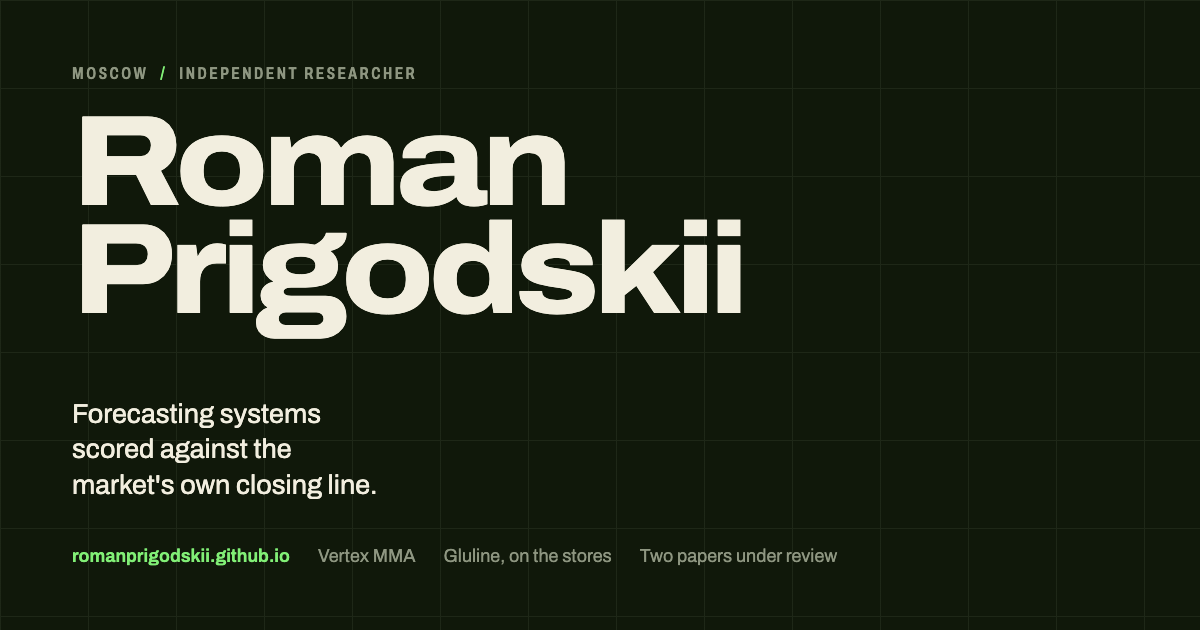
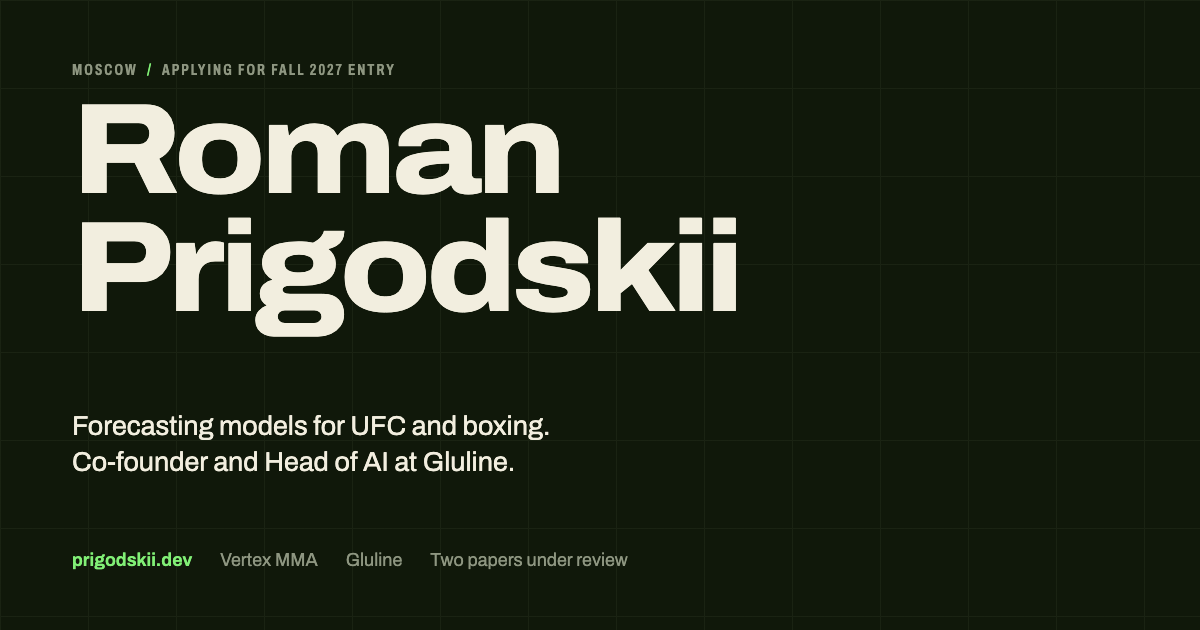
content: a plain tagline for the header, the link previews and the card
"Forecasting systems scored against the market's own closing line, and
the statistics that make the claims checkable" read oddly to Roman. The
header roll, the meta and og descriptions and the social card now say
what he does: forecasting models for UFC and boxing, and Head of AI at
Gluline. The card also had the old github.io address; it is rebuilt from
tools/og.html with prigodskii.dev.

diff --git a/tools/og.html b/tools/og.html
@@ -1,0 +1,54 @@
+<!doctype html>
+<!-- The social card, assets/img/og.png. Rendered at 1200x630 by headless Chrome:
+     serve the repo root and screenshot /tools/og.html at that size. -->
+<html lang="en">
+<head>
+<meta charset="utf-8">
+<style>
+@font-face {
+  font-family: Archivo; font-weight: 100 900; font-stretch: 62% 125%;
+  src: url("../assets/fonts/archivo-latin.woff2") format("woff2");
+}
+:root {
+  --bg: oklch(0.198 0.030 132);
+  --grid: oklch(0.242 0.032 132);
+  --ink: oklch(0.948 0.020 95);
+  --ink-2: oklch(0.800 0.030 118);
+  --ink-3: oklch(0.660 0.032 124);
+  --acc: oklch(0.860 0.190 142);
+}
+html, body { margin: 0; }
+body {
+  width: 1200px; height: 630px; overflow: hidden; box-sizing: border-box;
+  padding: 62px 72px 0;
+  font-family: Archivo, sans-serif; color: var(--ink);
+  background:
+    linear-gradient(var(--grid) 1px, transparent 1px) 0 0 / 88px 88px,
+    linear-gradient(90deg, var(--grid) 1px, transparent 1px) 0 0 / 88px 88px,
+    var(--bg);
+  position: relative;
+}
+.k {
+  margin: 0; font-size: 15px; font-weight: 650; font-stretch: 68%;
+  letter-spacing: 0.14em; text-transform: uppercase; color: var(--ink-3);
+}
+.k span { color: var(--acc); padding: 0 0.6em; }
+h1 {
+  margin: 14px 0 0; font-size: 128px; line-height: 0.92; font-weight: 780;
+  font-stretch: 114%; letter-spacing: -0.035em;
+}
+.t { margin: 80px 0 0; font-size: 27px; line-height: 1.34; max-width: 22em; }
+.f {
+  position: absolute; left: 72px; bottom: 60px; margin: 0;
+  display: flex; gap: 28px; font-size: 18px; color: var(--ink-3);
+}
+.f b { color: var(--acc); font-weight: 650; }
+</style>
+</head>
+<body>
+  <p class="k">Moscow<span>/</span>Applying for Fall 2027 entry</p>
+  <h1>Roman<br>Prigodskii</h1>
+  <p class="t">Forecasting models for UFC and boxing.<br>Co-founder and Head of AI at Gluline.</p>
+  <p class="f"><b>prigodskii.dev</b><span>Vertex MMA</span><span>Gluline</span><span>Two papers under review</span></p>
+</body>
+</html>

diff --git a/index.html b/index.html
@@ -4,13 +4,13 @@
 <meta charset="utf-8">
 <meta name="viewport" content="width=device-width, initial-scale=1, viewport-fit=cover">
 <title>Roman Prigodskii</title>
-<meta name="description" content="Roman Prigodskii, 17, Moscow. Forecasting systems scored against the market's own closing line, and the statistics that make the claims checkable. Vertex MMA, Vertex Boxing, co-founder and Head of AI at Gluline, and two papers under review at NeurIPS 2026 workshops.">
+<meta name="description" content="Roman Prigodskii, 17, Moscow. Forecasting models for UFC and boxing (Vertex MMA, Vertex Boxing), co-founder and Head of AI at Gluline, and two papers under review at NeurIPS 2026 workshops.">
 <meta name="author" content="Roman Prigodskii">
 <meta name="theme-color" content="#161e14">
 <link rel="canonical" href="https://prigodskii.dev/">
 <meta property="og:type" content="profile">
 <meta property="og:title" content="Roman Prigodskii">
-<meta property="og:description" content="Forecasting systems scored against the market's own closing line, and the statistics that make the claims checkable.">
+<meta property="og:description" content="17, Moscow. Forecasting models for UFC and boxing, co-founder and Head of AI at Gluline, two papers under review at NeurIPS 2026 workshops.">
 <meta property="og:url" content="https://prigodskii.dev/">
 <meta property="og:image" content="https://prigodskii.dev/assets/img/og.png">
 <meta property="og:image:width" content="1200">
@@ -43,7 +43,7 @@
     <span>Prigodskii</span>
   </a>
   <p class="bar__roll" aria-hidden="true">
-    <span class="is-cur">Forecasting systems, scored against the closing line</span>
+    <span class="is-cur">Forecasting models for UFC and boxing</span>
     <span>Moscow Olympiad in Economics, first in Grade 10</span>
     <span>Two sole-authored papers under review</span>
     <span>Co-founder and Head of AI at Gluline</span>

diff --git a/research/index.html b/research/index.html
@@ -10,7 +10,7 @@
 <link rel="canonical" href="https://prigodskii.dev/research/">
 <meta property="og:type" content="article">
 <meta property="og:title" content="Research, Roman Prigodskii">
-<meta property="og:description" content="An e-value audit where the gambler is not a metaphor, and a protocol for measuring what an evaluation could have detected.">
+<meta property="og:description" content="Two papers under review at NeurIPS 2026 workshops: an e-value audit of 84 market-efficiency hypotheses, and detection floors for model selection and LLM judges.">
 <meta property="og:url" content="https://prigodskii.dev/research/">
 <meta property="og:image" content="https://prigodskii.dev/assets/img/og.png">
 <meta name="twitter:card" content="summary_large_image">

diff --git a/README.md b/README.md
@@ -44,6 +44,7 @@ papers/                     the three submitted PDFs
 tools/build_data.py         regenerates assets/data/audit.json
 tools/palettes.py           the three palettes, with a contrast check for every pair
 tools/deploy.sh             publishes HEAD to prigodskii.dev
+tools/og.html               the social card, screenshotted at 1200x630 into assets/img/og.png
 server/                     the nginx container and its Traefik routing, as it runs on the server
 DESIGN.md                   the design system and why it looks like this
 ```
